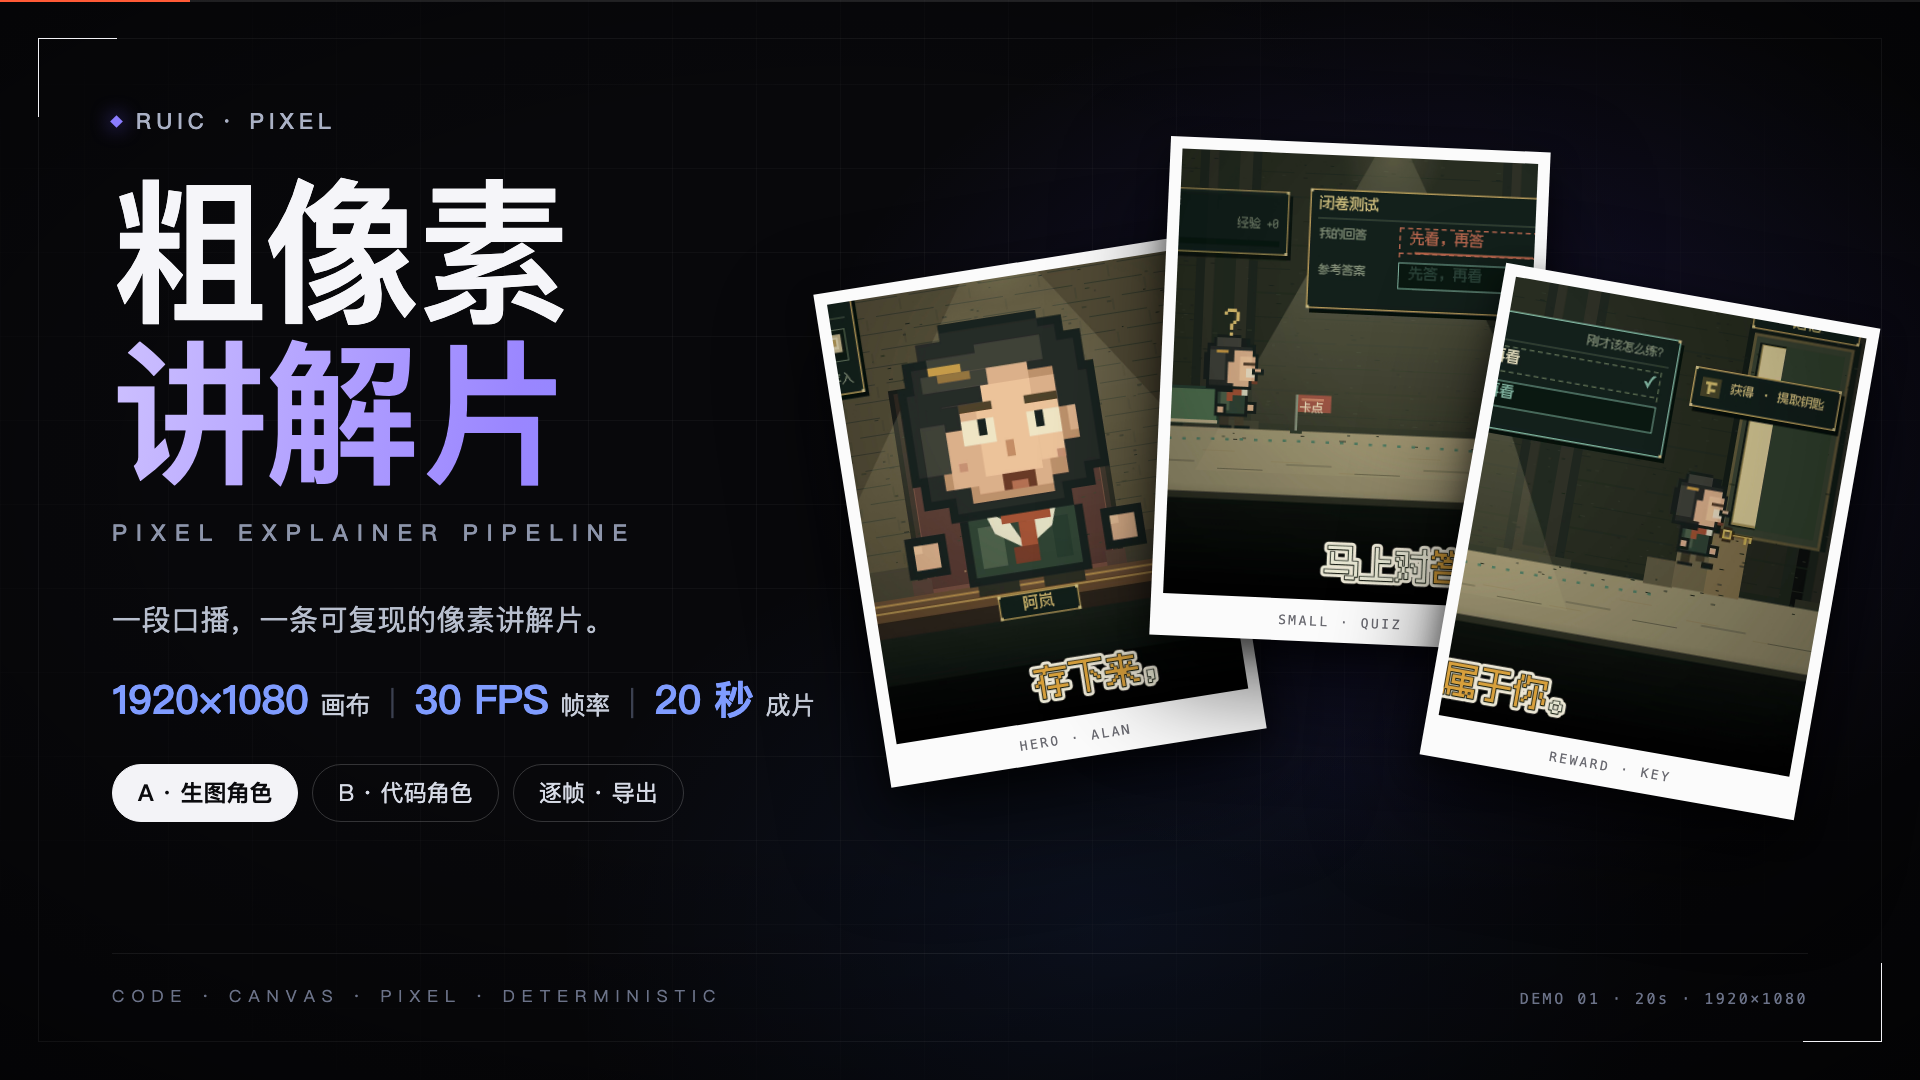
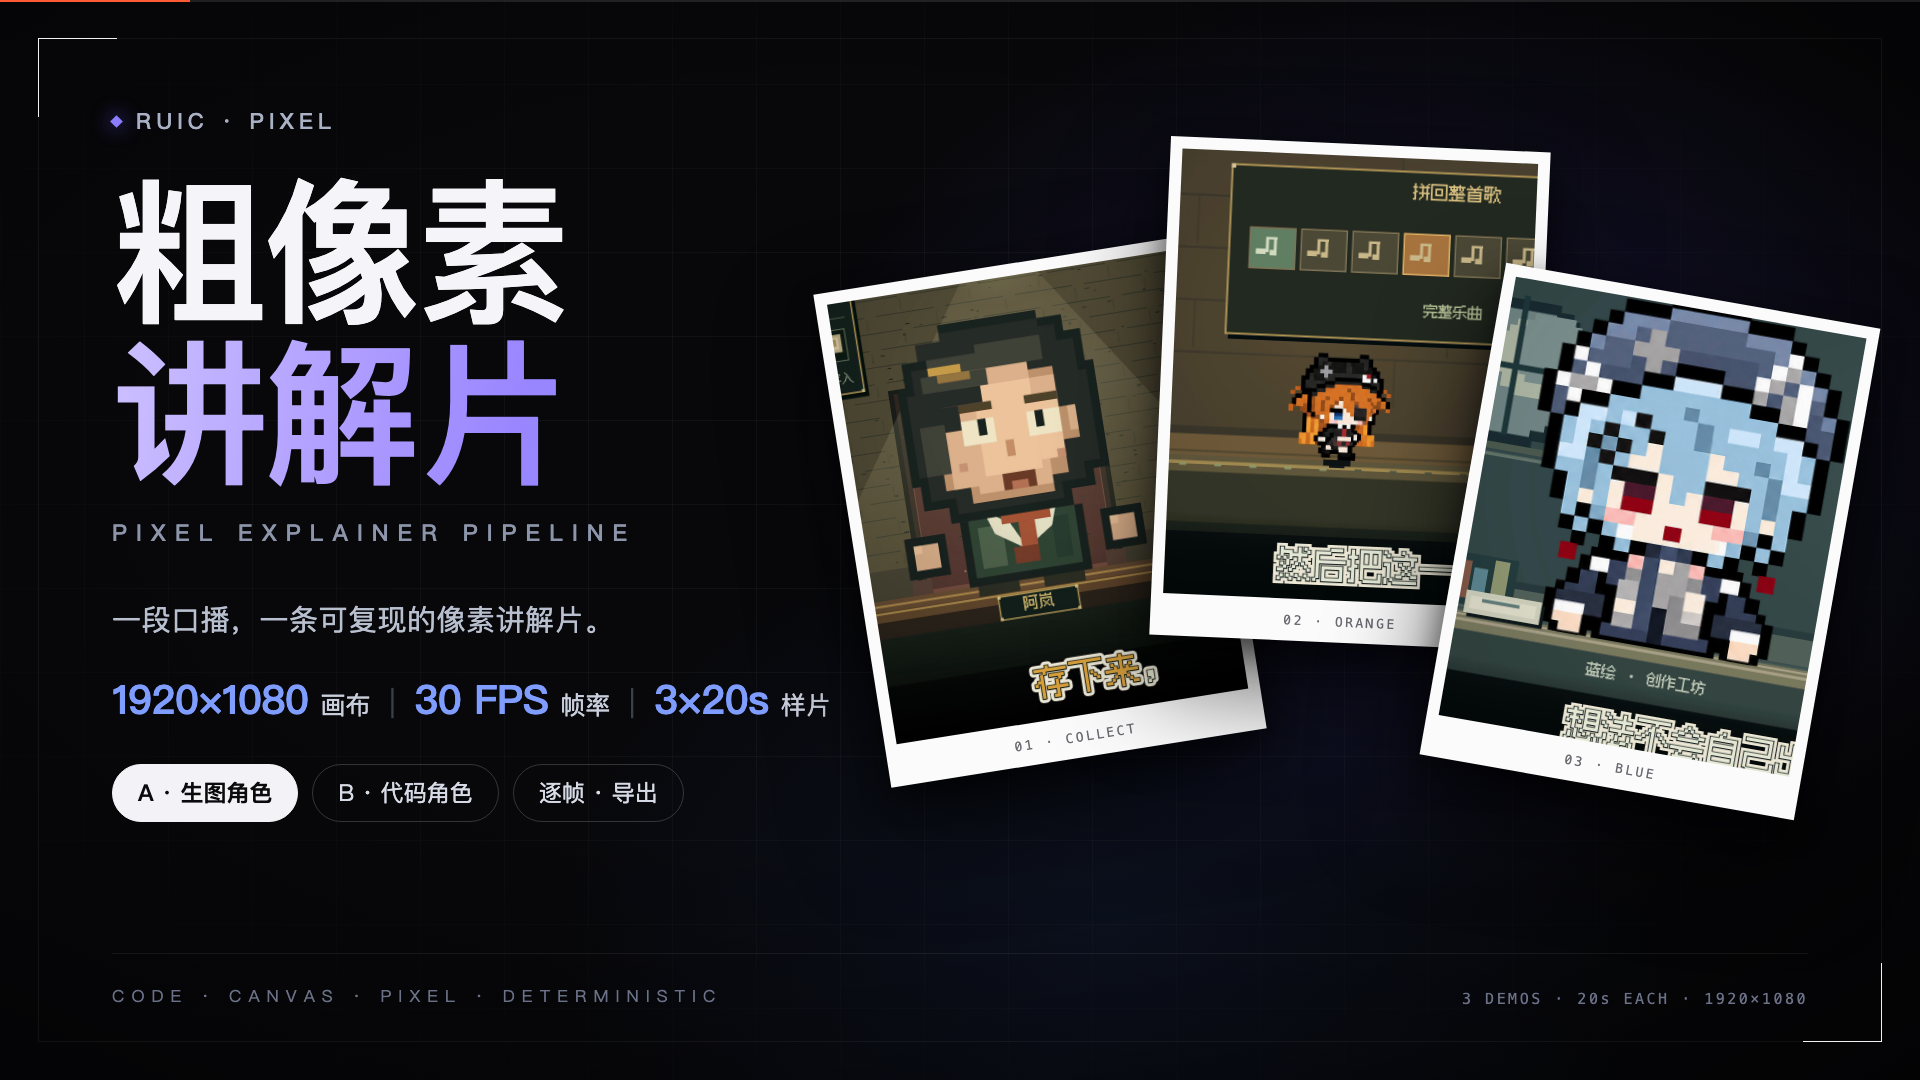
README 主视觉：三张卡片分别取自三条样片（收藏 / 橙发 / 蓝发）
不再三张都用同一条视频；统计行改为 3×20s 样片，右下角标注 3 DEMOS。

diff --git a/assets/hero/hero.html b/assets/hero/hero.html
@@ -71,7 +71,7 @@
     <div class="stats">
       <span class="num">1920×1080</span><span class="lab">画布</span><span class="sep">|</span>
       <span class="num">30 FPS</span><span class="lab">帧率</span><span class="sep">|</span>
-      <span class="num">20 秒</span><span class="lab">成片</span>
+      <span class="num">3×20s</span><span class="lab">样片</span>
     </div>
     <div class="pills">
       <span class="pill on">A · 生图角色</span>
@@ -81,14 +81,14 @@
   </div>
 
   <div class="cards">
-    <figure class="card c1"><img src="card-actor.png"><figcaption>HERO · ALAN</figcaption></figure>
-    <figure class="card c2"><img src="card-small.png"><figcaption>SMALL · QUIZ</figcaption></figure>
-    <figure class="card c3"><img src="card-scene.png"><figcaption>REWARD · KEY</figcaption></figure>
+    <figure class="card c1"><img src="card-actor.png"><figcaption>01 · COLLECT</figcaption></figure>
+    <figure class="card c2"><img src="card-small.png"><figcaption>02 · ORANGE</figcaption></figure>
+    <figure class="card c3"><img src="card-scene.png"><figcaption>03 · BLUE</figcaption></figure>
   </div>
 
   <div class="rule"></div>
   <div class="foot">CODE · CANVAS · PIXEL · DETERMINISTIC</div>
-  <div class="foot-r">DEMO 01 · 20s · 1920×1080</div>
+  <div class="foot-r">3 DEMOS · 20s EACH · 1920×1080</div>
 </div>
 </body>
 </html>

diff --git a/README.md b/README.md
@@ -9,7 +9,7 @@
 
 <a href="assets/hero-pixel-explainer.png"><img src="assets/hero-pixel-explainer.png" alt="RuiC Pixel Explainer · 粗像素讲解片" width="100%"></a>
 
-**20 秒样片 ·《收藏不等于学会》**
+**三条 20 秒样片 · 收藏 / 橙发 / 蓝发**
 
 ---
 
